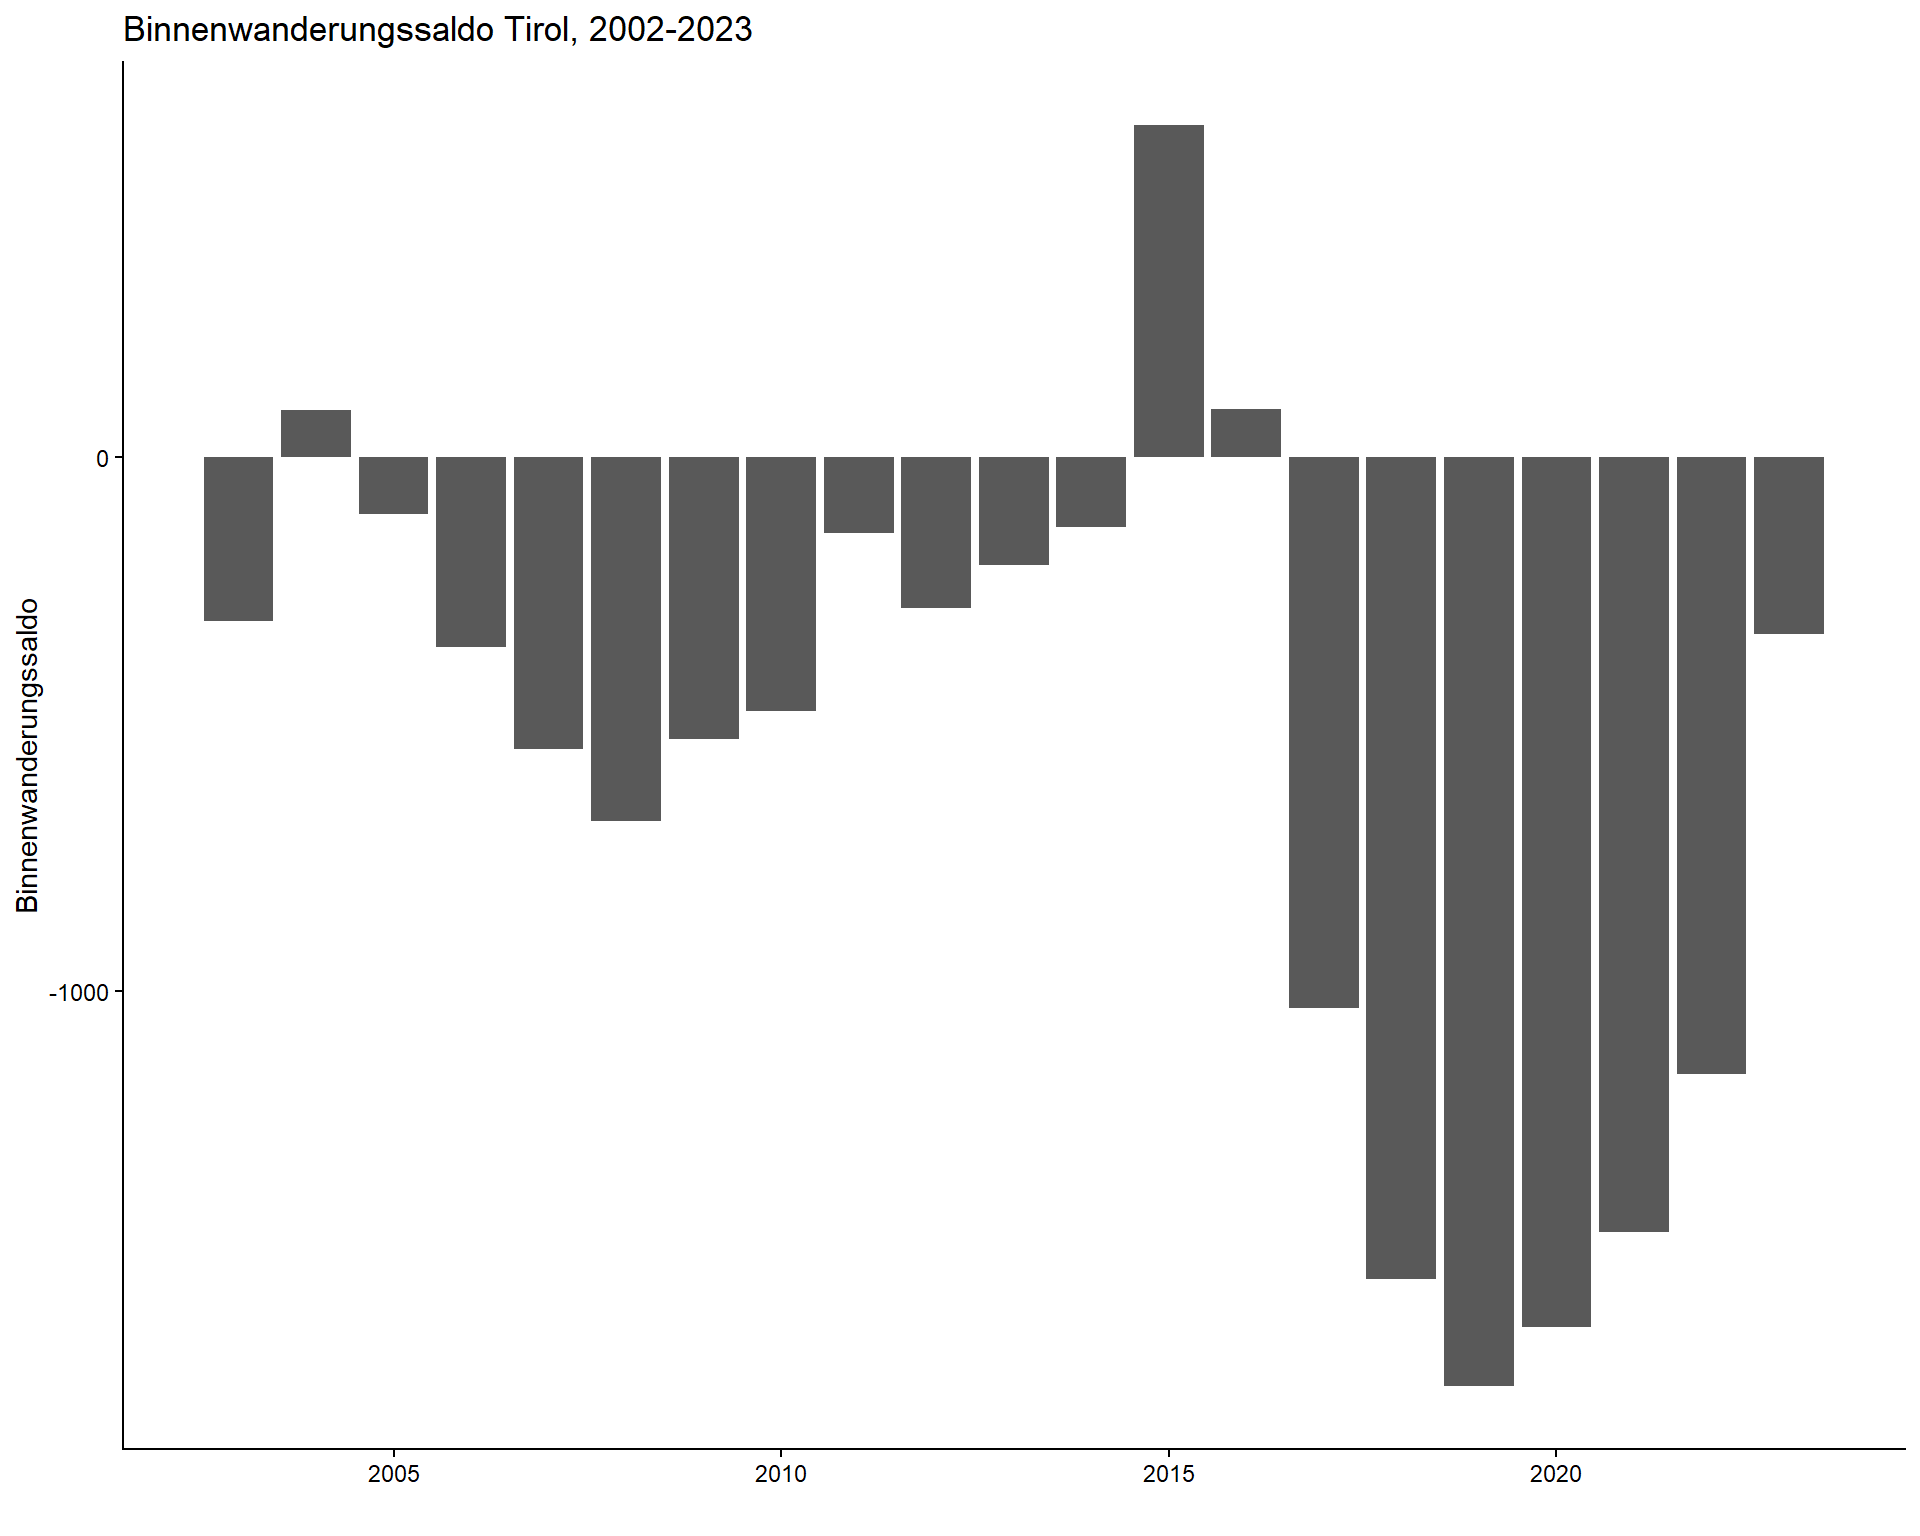
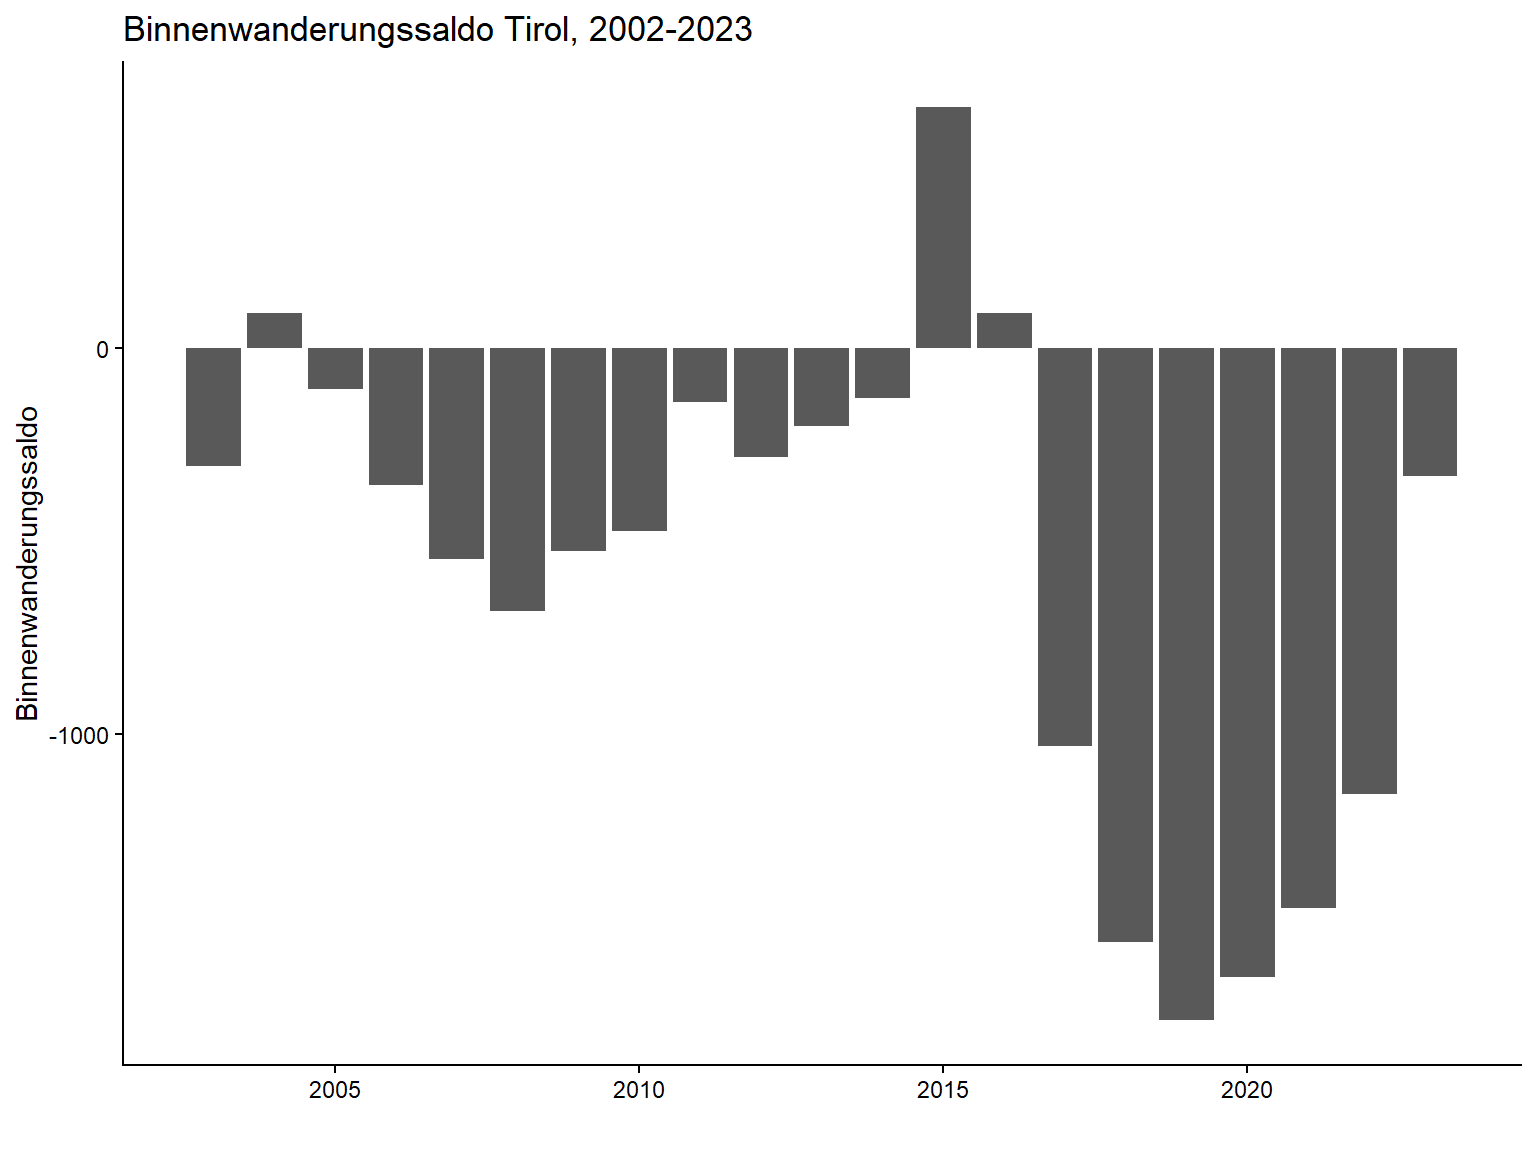
update

diff --git a/docs/05_regional_profile.html b/docs/05_regional_profile.html
@@ -191,7 +191,7 @@ pre > code.sourceCode > span > a:first-child::before { text-decoration: underlin
   <li><a href="#raumtypologien" id="toc-raumtypologien" class="nav-link" data-scroll-target="#raumtypologien">3.2. Raumtypologien</a></li>
   <li><a href="#berechnungen-für-gemeindetypologien" id="toc-berechnungen-für-gemeindetypologien" class="nav-link" data-scroll-target="#berechnungen-für-gemeindetypologien">3.3. Berechnungen für Gemeindetypologien</a></li>
   <li><a href="#diagramm-bevölkerungsdynamik" id="toc-diagramm-bevölkerungsdynamik" class="nav-link" data-scroll-target="#diagramm-bevölkerungsdynamik">3.4. Diagramm Bevölkerungsdynamik</a></li>
-  <li><a href="#bevölkerungspyramide" id="toc-bevölkerungspyramide" class="nav-link" data-scroll-target="#bevölkerungspyramide">3.4. Bevölkerungspyramide</a></li>
+  <li><a href="#bevölkerungspyramide" id="toc-bevölkerungspyramide" class="nav-link" data-scroll-target="#bevölkerungspyramide">3.5. Bevölkerungspyramide</a></li>
   </ul>
 </nav>
     </div>
@@ -295,7 +295,7 @@ pre > code.sourceCode > span > a:first-child::before { text-decoration: underlin
 <div class="cell">
 <div class="code-copy-outer-scaffold"><div class="sourceCode cell-code" id="cb7"><pre class="sourceCode r code-with-copy"><code class="sourceCode r"><span id="cb7-1"><a href="#cb7-1" aria-hidden="true" tabindex="-1"></a><span class="fu">ggplot</span>(dta_typ, <span class="fu">aes</span>(<span class="at">x =</span> <span class="fu">as.factor</span>(jahr), <span class="at">y =</span> pop_index, <span class="at">group =</span> typ, <span class="at">color =</span> typ))<span class="sc">+</span></span>
 <span id="cb7-2"><a href="#cb7-2" aria-hidden="true" tabindex="-1"></a>  <span class="fu">geom_line</span>(<span class="at">linewidth =</span> <span class="dv">1</span>) <span class="sc">+</span></span>
-<span id="cb7-3"><a href="#cb7-3" aria-hidden="true" tabindex="-1"></a>  <span class="fu">geom_point</span>() <span class="sc">+</span></span>
+<span id="cb7-3"><a href="#cb7-3" aria-hidden="true" tabindex="-1"></a>  <span class="fu">geom_point</span>(<span class="at">size =</span> <span class="fl">1.5</span>) <span class="sc">+</span></span>
 <span id="cb7-4"><a href="#cb7-4" aria-hidden="true" tabindex="-1"></a>  <span class="fu">geom_hline</span>(<span class="at">yintercept =</span> <span class="dv">100</span>, <span class="at">col =</span> <span class="st">"black"</span>, <span class="at">linetype =</span> <span class="st">"dashed"</span>, <span class="at">size =</span> <span class="dv">1</span>)<span class="sc">+</span></span>
 <span id="cb7-5"><a href="#cb7-5" aria-hidden="true" tabindex="-1"></a>  <span class="fu">scale_color_manual</span>(</span>
 <span id="cb7-6"><a href="#cb7-6" aria-hidden="true" tabindex="-1"></a>    <span class="at">values =</span> <span class="fu">c</span>(<span class="st">"Urbaner Raum"</span> <span class="ot">=</span> <span class="st">"#b35e6b"</span>,</span>
@@ -314,7 +314,7 @@ pre > code.sourceCode > span > a:first-child::before { text-decoration: underlin
 <div class="cell-output-display">
 <div>
 <figure class="figure">
-<p><img src="05_regional_profile_files/figure-html/unnamed-chunk-7-1.png" class="img-fluid figure-img" width="960"></p>
+<p><img src="05_regional_profile_files/figure-html/unnamed-chunk-7-1.png" class="img-fluid figure-img" width="768"></p>
 </figure>
 </div>
 </div>
@@ -344,7 +344,7 @@ pre > code.sourceCode > span > a:first-child::before { text-decoration: underlin
 <span id="cb9-17"><a href="#cb9-17" aria-hidden="true" tabindex="-1"></a>  )</span></code></pre></div><button title="Copy to Clipboard" class="code-copy-button"><i class="bi"></i></button></div>
 </div>
 <div class="cell">
-<div class="code-copy-outer-scaffold"><div class="sourceCode cell-code" id="cb10"><pre class="sourceCode r code-with-copy"><code class="sourceCode r"><span id="cb10-1"><a href="#cb10-1" aria-hidden="true" tabindex="-1"></a><span class="fu">ggplot</span>(mig_typ, <span class="fu">aes</span>(<span class="at">x =</span> jahr, <span class="at">y =</span> value, <span class="at">group =</span> typ, <span class="at">color =</span> typ))<span class="sc">+</span></span>
+<div class="code-copy-outer-scaffold"><div class="sourceCode cell-code" id="cb10"><pre class="sourceCode r code-with-copy"><code class="sourceCode r"><span id="cb10-1"><a href="#cb10-1" aria-hidden="true" tabindex="-1"></a><span class="fu">ggplot</span>(mig_typ, <span class="fu">aes</span>(<span class="at">x =</span> <span class="fu">as.factor</span>(jahr), <span class="at">y =</span> value, <span class="at">group =</span> typ, <span class="at">color =</span> typ))<span class="sc">+</span></span>
 <span id="cb10-2"><a href="#cb10-2" aria-hidden="true" tabindex="-1"></a>  <span class="fu">geom_line</span>(<span class="at">linewidth =</span> <span class="dv">1</span>)<span class="sc">+</span></span>
 <span id="cb10-3"><a href="#cb10-3" aria-hidden="true" tabindex="-1"></a>  <span class="fu">facet_wrap</span>(variable<span class="sc">~</span>.)<span class="sc">+</span></span>
 <span id="cb10-4"><a href="#cb10-4" aria-hidden="true" tabindex="-1"></a>    <span class="fu">geom_hline</span>(<span class="at">yintercept =</span> <span class="dv">0</span>, <span class="at">col =</span> <span class="st">"black"</span>, <span class="at">linetype =</span> <span class="st">"dashed"</span>, <span class="at">size =</span> <span class="fl">0.7</span>)<span class="sc">+</span></span>
@@ -361,18 +361,18 @@ pre > code.sourceCode > span > a:first-child::before { text-decoration: underlin
 <span id="cb10-15"><a href="#cb10-15" aria-hidden="true" tabindex="-1"></a>    <span class="fu">labs</span>(<span class="at">y =</span> <span class="st">"Rate pro 1000 EW"</span>,</span>
 <span id="cb10-16"><a href="#cb10-16" aria-hidden="true" tabindex="-1"></a>       <span class="at">x =</span> <span class="cn">NULL</span>,</span>
 <span id="cb10-17"><a href="#cb10-17" aria-hidden="true" tabindex="-1"></a>       <span class="at">color =</span> <span class="cn">NULL</span>,</span>
-<span id="cb10-18"><a href="#cb10-18" aria-hidden="true" tabindex="-1"></a>       <span class="at">title =</span> <span class="st">"Bevölkerungsdynamik; Tirol 2003-2023"</span>) </span></code></pre></div><button title="Copy to Clipboard" class="code-copy-button"><i class="bi"></i></button></div>
+<span id="cb10-18"><a href="#cb10-18" aria-hidden="true" tabindex="-1"></a>       <span class="at">title =</span> <span class="st">"Bevölkerungsdynamik; Tirol 2002-2023"</span>) </span></code></pre></div><button title="Copy to Clipboard" class="code-copy-button"><i class="bi"></i></button></div>
 <div class="cell-output-display">
 <div>
 <figure class="figure">
-<p><img src="05_regional_profile_files/figure-html/unnamed-chunk-9-1.png" class="img-fluid figure-img" width="960"></p>
+<p><img src="05_regional_profile_files/figure-html/unnamed-chunk-9-1.png" class="img-fluid figure-img" width="768"></p>
 </figure>
 </div>
 </div>
 </div>
 </section>
 <section id="bevölkerungspyramide" class="level3">
-<h3 class="anchored" data-anchor-id="bevölkerungspyramide">3.4. Bevölkerungspyramide</h3>
+<h3 class="anchored" data-anchor-id="bevölkerungspyramide">3.5. Bevölkerungspyramide</h3>
 <div class="cell">
 <div class="code-copy-outer-scaffold"><div class="sourceCode cell-code" id="cb11"><pre class="sourceCode r code-with-copy"><code class="sourceCode r"><span id="cb11-1"><a href="#cb11-1" aria-hidden="true" tabindex="-1"></a>dta_pyramid <span class="ot">&lt;-</span> <span class="fu">read.csv</span>(<span class="st">"data/Bevölkerungspyramide.csv"</span>)</span></code></pre></div><button title="Copy to Clipboard" class="code-copy-button"><i class="bi"></i></button></div>
 </div>
@@ -413,7 +413,7 @@ pre > code.sourceCode > span > a:first-child::before { text-decoration: underlin
 <div class="cell-output-display">
 <div>
 <figure class="figure">
-<p><img src="05_regional_profile_files/figure-html/unnamed-chunk-11-1.png" class="img-fluid figure-img" width="960"></p>
+<p><img src="05_regional_profile_files/figure-html/unnamed-chunk-11-1.png" class="img-fluid figure-img" width="768"></p>
 </figure>
 </div>
 </div>

diff --git a/docs/02_data_manipulation.html b/docs/02_data_manipulation.html
@@ -508,7 +508,7 @@ window.Quarto = {
 <div class="cell-output-display">
 <div>
 <figure class="figure">
-<p><img src="02_data_manipulation_files/figure-html/unnamed-chunk-13-1.png" class="img-fluid figure-img" width="960"></p>
+<p><img src="02_data_manipulation_files/figure-html/unnamed-chunk-13-1.png" class="img-fluid figure-img" width="768"></p>
 </figure>
 </div>
 </div>
@@ -519,7 +519,7 @@ window.Quarto = {
 <div class="cell-output-display">
 <div>
 <figure class="figure">
-<p><img src="02_data_manipulation_files/figure-html/unnamed-chunk-13-2.png" class="img-fluid figure-img" width="960"></p>
+<p><img src="02_data_manipulation_files/figure-html/unnamed-chunk-13-2.png" class="img-fluid figure-img" width="768"></p>
 </figure>
 </div>
 </div>
@@ -531,7 +531,7 @@ window.Quarto = {
 <div class="cell-output-display">
 <div>
 <figure class="figure">
-<p><img src="02_data_manipulation_files/figure-html/unnamed-chunk-13-3.png" class="img-fluid figure-img" width="960"></p>
+<p><img src="02_data_manipulation_files/figure-html/unnamed-chunk-13-3.png" class="img-fluid figure-img" width="768"></p>
 </figure>
 </div>
 </div>
@@ -543,7 +543,7 @@ window.Quarto = {
 <div class="cell-output-display">
 <div>
 <figure class="figure">
-<p><img src="02_data_manipulation_files/figure-html/unnamed-chunk-13-4.png" class="img-fluid figure-img" width="960"></p>
+<p><img src="02_data_manipulation_files/figure-html/unnamed-chunk-13-4.png" class="img-fluid figure-img" width="768"></p>
 </figure>
 </div>
 </div>
@@ -557,7 +557,7 @@ window.Quarto = {
 <div class="cell-output-display">
 <div>
 <figure class="figure">
-<p><img src="02_data_manipulation_files/figure-html/unnamed-chunk-13-5.png" class="img-fluid figure-img" width="960"></p>
+<p><img src="02_data_manipulation_files/figure-html/unnamed-chunk-13-5.png" class="img-fluid figure-img" width="768"></p>
 </figure>
 </div>
 </div>
@@ -571,7 +571,7 @@ window.Quarto = {
 <div class="cell-output-display">
 <div>
 <figure class="figure">
-<p><img src="02_data_manipulation_files/figure-html/unnamed-chunk-14-1.png" class="img-fluid figure-img" width="960"></p>
+<p><img src="02_data_manipulation_files/figure-html/unnamed-chunk-14-1.png" class="img-fluid figure-img" width="768"></p>
 </figure>
 </div>
 </div>
@@ -582,7 +582,7 @@ window.Quarto = {
 <div class="cell-output-display">
 <div>
 <figure class="figure">
-<p><img src="02_data_manipulation_files/figure-html/unnamed-chunk-14-2.png" class="img-fluid figure-img" width="960"></p>
+<p><img src="02_data_manipulation_files/figure-html/unnamed-chunk-14-2.png" class="img-fluid figure-img" width="768"></p>
 </figure>
 </div>
 </div>
@@ -593,7 +593,7 @@ window.Quarto = {
 <div class="cell-output-display">
 <div>
 <figure class="figure">
-<p><img src="02_data_manipulation_files/figure-html/unnamed-chunk-14-3.png" class="img-fluid figure-img" width="960"></p>
+<p><img src="02_data_manipulation_files/figure-html/unnamed-chunk-14-3.png" class="img-fluid figure-img" width="768"></p>
 </figure>
 </div>
 </div>
@@ -604,7 +604,7 @@ window.Quarto = {
 <div class="cell-output-display">
 <div>
 <figure class="figure">
-<p><img src="02_data_manipulation_files/figure-html/unnamed-chunk-14-4.png" class="img-fluid figure-img" width="960"></p>
+<p><img src="02_data_manipulation_files/figure-html/unnamed-chunk-14-4.png" class="img-fluid figure-img" width="768"></p>
 </figure>
 </div>
 </div>
@@ -659,7 +659,7 @@ window.Quarto = {
 <div class="cell-output-display">
 <div>
 <figure class="figure">
-<p><img src="02_data_manipulation_files/figure-html/unnamed-chunk-17-1.png" class="img-fluid figure-img" width="960"></p>
+<p><img src="02_data_manipulation_files/figure-html/unnamed-chunk-17-1.png" class="img-fluid figure-img" width="768"></p>
 </figure>
 </div>
 </div>
@@ -679,7 +679,7 @@ window.Quarto = {
 <div class="cell-output-display">
 <div>
 <figure class="figure">
-<p><img src="02_data_manipulation_files/figure-html/unnamed-chunk-17-2.png" class="img-fluid figure-img" width="960"></p>
+<p><img src="02_data_manipulation_files/figure-html/unnamed-chunk-17-2.png" class="img-fluid figure-img" width="768"></p>
 </figure>
 </div>
 </div>
@@ -699,7 +699,7 @@ window.Quarto = {
 <div class="cell-output-display">
 <div>
 <figure class="figure">
-<p><img src="02_data_manipulation_files/figure-html/unnamed-chunk-17-3.png" class="img-fluid figure-img" width="960"></p>
+<p><img src="02_data_manipulation_files/figure-html/unnamed-chunk-17-3.png" class="img-fluid figure-img" width="768"></p>
 </figure>
 </div>
 </div>
@@ -719,7 +719,7 @@ window.Quarto = {
 <div class="cell-output-display">
 <div>
 <figure class="figure">
-<p><img src="02_data_manipulation_files/figure-html/unnamed-chunk-17-4.png" class="img-fluid figure-img" width="960"></p>
+<p><img src="02_data_manipulation_files/figure-html/unnamed-chunk-17-4.png" class="img-fluid figure-img" width="768"></p>
 </figure>
 </div>
 </div>
@@ -747,7 +747,7 @@ window.Quarto = {
 <div class="cell-output-display">
 <div>
 <figure class="figure">
-<p><img src="02_data_manipulation_files/figure-html/unnamed-chunk-18-1.png" class="img-fluid figure-img" width="960"></p>
+<p><img src="02_data_manipulation_files/figure-html/unnamed-chunk-18-1.png" class="img-fluid figure-img" width="768"></p>
 </figure>
 </div>
 </div>

diff --git a/docs/06_pop_pyramid.html b/docs/06_pop_pyramid.html
@@ -247,7 +247,7 @@ pre > code.sourceCode > span > a:first-child::before { text-decoration: underlin
 <div class="cell-output-display">
 <div>
 <figure class="figure">
-<p><img src="06_pop_pyramid_files/figure-html/unnamed-chunk-3-1.png" class="img-fluid figure-img" width="960"></p>
+<p><img src="06_pop_pyramid_files/figure-html/unnamed-chunk-3-1.png" class="img-fluid figure-img" width="768"></p>
 </figure>
 </div>
 </div>

diff --git a/docs/03_sequenzanalyse.html b/docs/03_sequenzanalyse.html
@@ -330,7 +330,7 @@ stark negativ       negativ       positiv stark positiv
 <div class="cell-output-display">
 <div>
 <figure class="figure">
-<p><img src="03_sequenzanalyse_files/figure-html/unnamed-chunk-5-1.png" class="img-fluid figure-img" width="960"></p>
+<p><img src="03_sequenzanalyse_files/figure-html/unnamed-chunk-5-1.png" class="img-fluid figure-img" width="768"></p>
 </figure>
 </div>
 </div>
